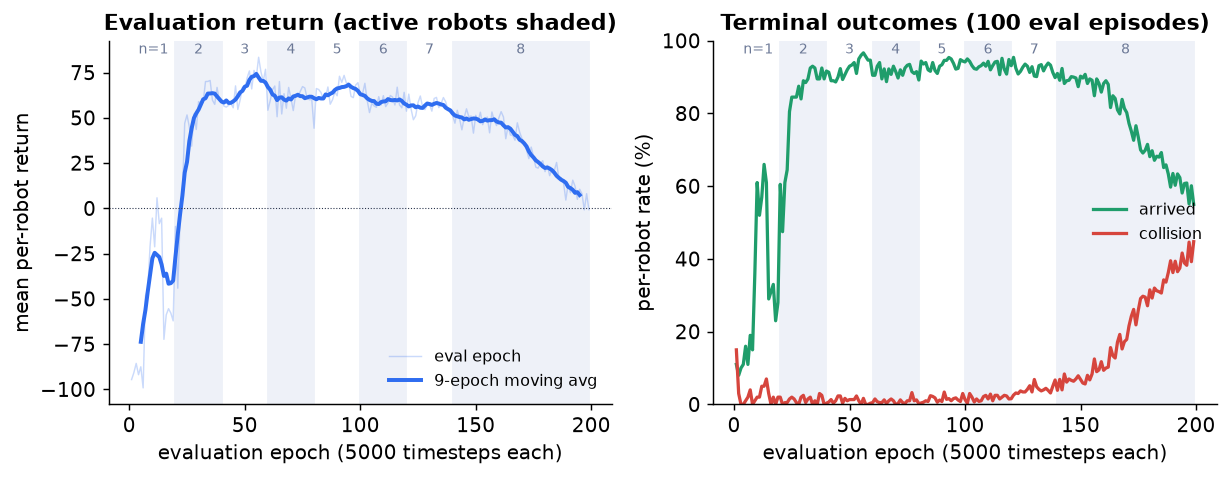
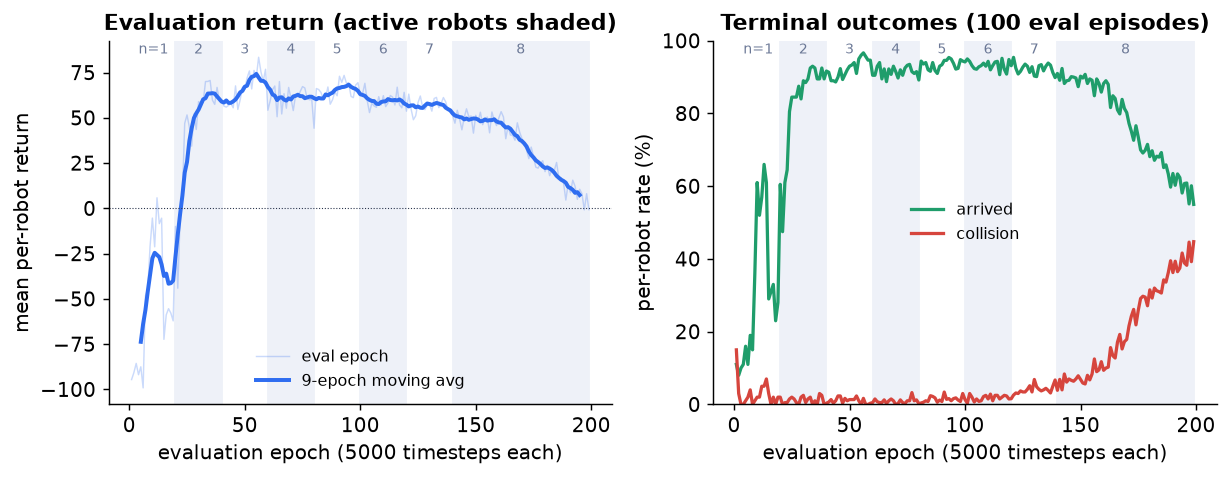
chore: fix label/legend/HUD overlaps in figures and the GIF
- environment figure: the "goal" annotation sat on the obstacle block —
  moved below-left of the goal into free field.
- learning curves: both legends hugged the right edge over the data —
  relocated into empty regions (lower center / center).
- demo GIF: the title and episode/step counter were drawn on the field
  itself, colliding with obstacles — the HUD now lives in its own strip
  above the field, so it can never overlap the scene.

Figures and the GIF regenerated.

diff --git a/report/scripts/make_gif.py b/report/scripts/make_gif.py
@@ -165,27 +165,26 @@ def render_frame(fig, ax, cfg, meta, frames, k, episode, total):
             viz.draw_lidar(ax, probe)
         viz.draw_robot(ax, x, y, theta, probe.radius, viz.COLORS[i])
 
-    # ── HUD on the field itself ──
-    ax.text(
-        -w / 2 + 0.25,
-        h / 2 - 0.3,
+    # ── HUD in its own strip ABOVE the field, never over the scene ──
+    fig.texts.clear()
+    fig.text(
+        0.03,
+        0.965,
         "TD3 shared policy on unseen episodes",
         color=INK,
         fontsize=11,
         fontweight="bold",
-        va="top",
-        zorder=9,
+        va="center",
     )
-    ax.text(
-        w / 2 - 0.25,
-        h / 2 - 0.3,
-        f"episode {episode:02d}/{total:02d} · step {k:03d}",
+    fig.text(
+        0.97,
+        0.965,
+        f"episode {episode}/{total} · step {k:3d}",
         color=MUTED,
         fontsize=9,
         family="monospace",
         ha="right",
-        va="top",
-        zorder=9,
+        va="center",
     )
 
     buf = io.BytesIO()
@@ -220,9 +219,10 @@ def main() -> None:
     if not episodes:
         raise SystemExit("no all-arrived episodes to animate")
 
-    # ── Re-render every episode into palette frames ──
-    fig, ax = plt.subplots(figsize=(6.0, 6.0))
-    fig.subplots_adjust(left=0, right=1, top=1, bottom=0)
+    # ── Re-render every episode into palette frames; the strip above the
+    #    axes hosts the HUD so it never overlaps the scene ──
+    fig, ax = plt.subplots(figsize=(6.0, 6.3))
+    fig.subplots_adjust(left=0, right=1, top=0.93, bottom=0)
     images = []
     for idx, (frames, meta) in enumerate(episodes, start=1):
         picks = list(range(0, len(frames), FRAME_STRIDE))

diff --git a/report/scripts/make_figures.py b/report/scripts/make_figures.py
@@ -84,10 +84,10 @@ def fig_environment():
     ax.annotate(
         "goal",
         (gx, gy),
-        (gx + 0.4, gy + 0.8),
+        (gx - 0.5, gy - 0.9),
         color=GOOD,
         fontsize=10,
-        ha="left",
+        ha="right",
         va="center",
         arrowprops={"arrowstyle": "-", "color": GOOD, "lw": 0.8},
     )
@@ -312,7 +312,7 @@ def fig_learning_curve():
     ax1.set_xlabel("evaluation epoch (5000 timesteps each)")
     ax1.set_ylabel("mean per-robot return")
     ax1.set_title("Evaluation return (active robots shaded)")
-    ax1.legend(frameon=False, fontsize=9, loc="lower right")
+    ax1.legend(frameon=False, fontsize=9, loc="lower center")
     ax1.spines[["top", "right"]].set_visible(False)
 
     # ── Right: arrival / collision rates over the same curriculum ──
@@ -323,7 +323,7 @@ def fig_learning_curve():
     ax2.set_ylabel("per-robot rate (%)")
     ax2.set_title("Terminal outcomes (100 eval episodes)")
     ax2.set_ylim(0, 100)
-    ax2.legend(frameon=False, fontsize=9, loc="center right")
+    ax2.legend(frameon=False, fontsize=9, loc="center")
     ax2.spines[["top", "right"]].set_visible(False)
 
     fig.tight_layout()